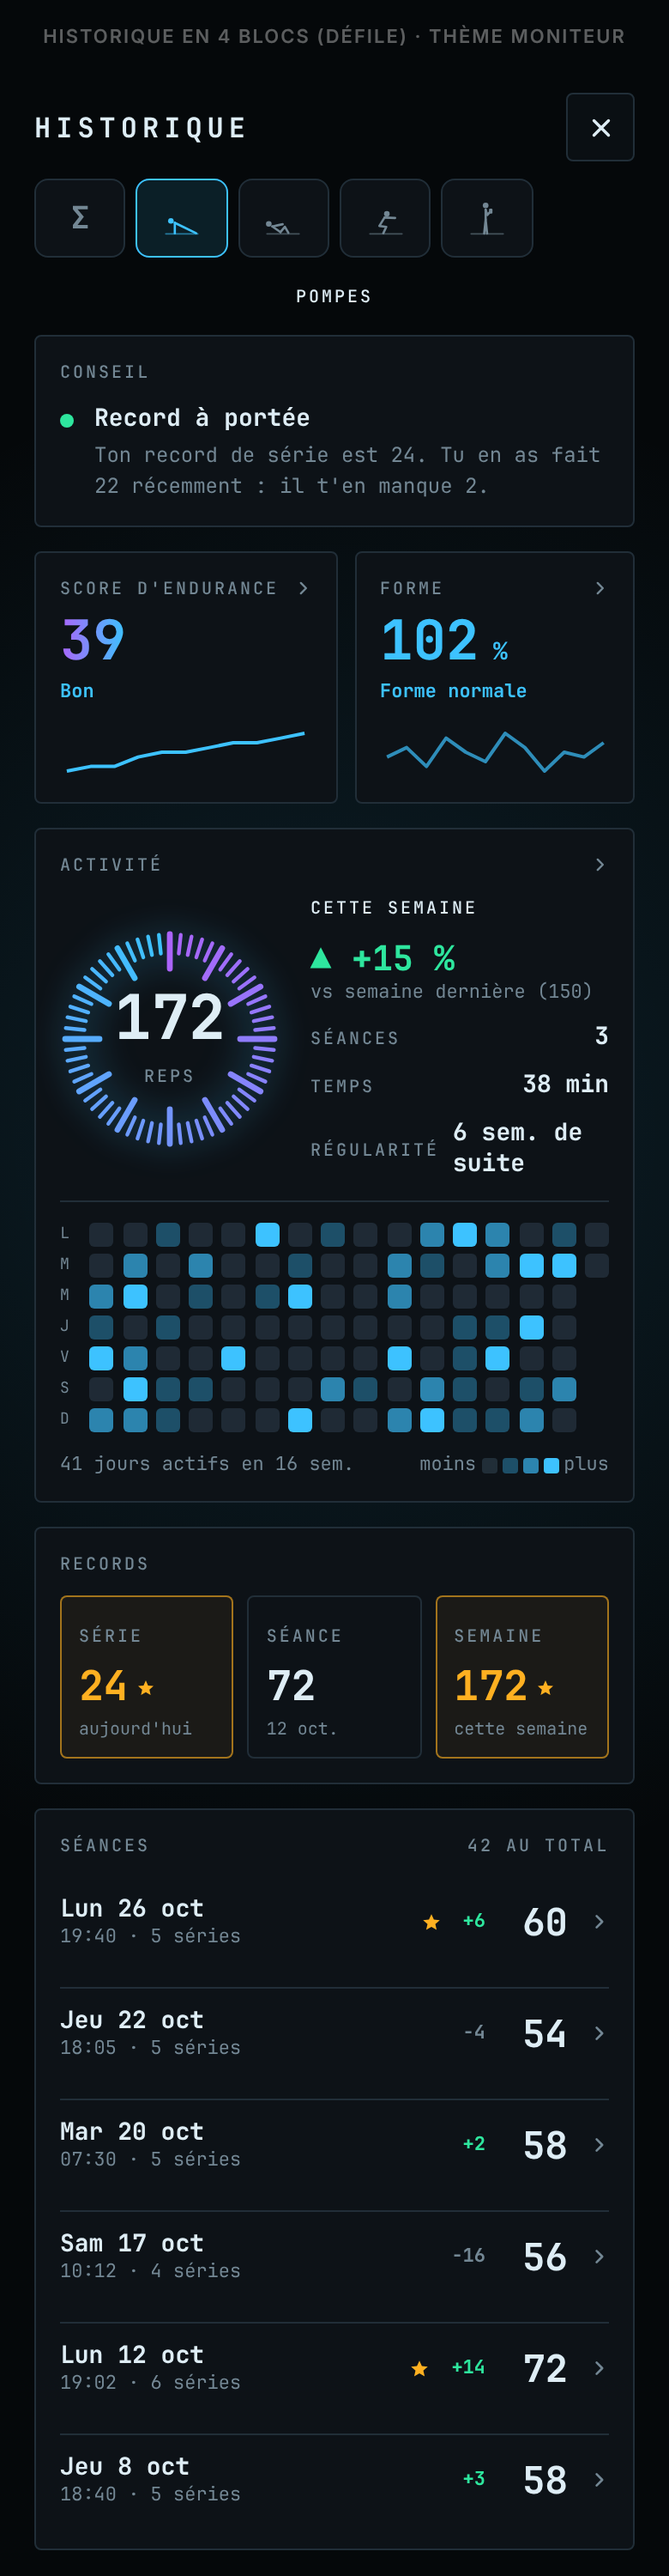
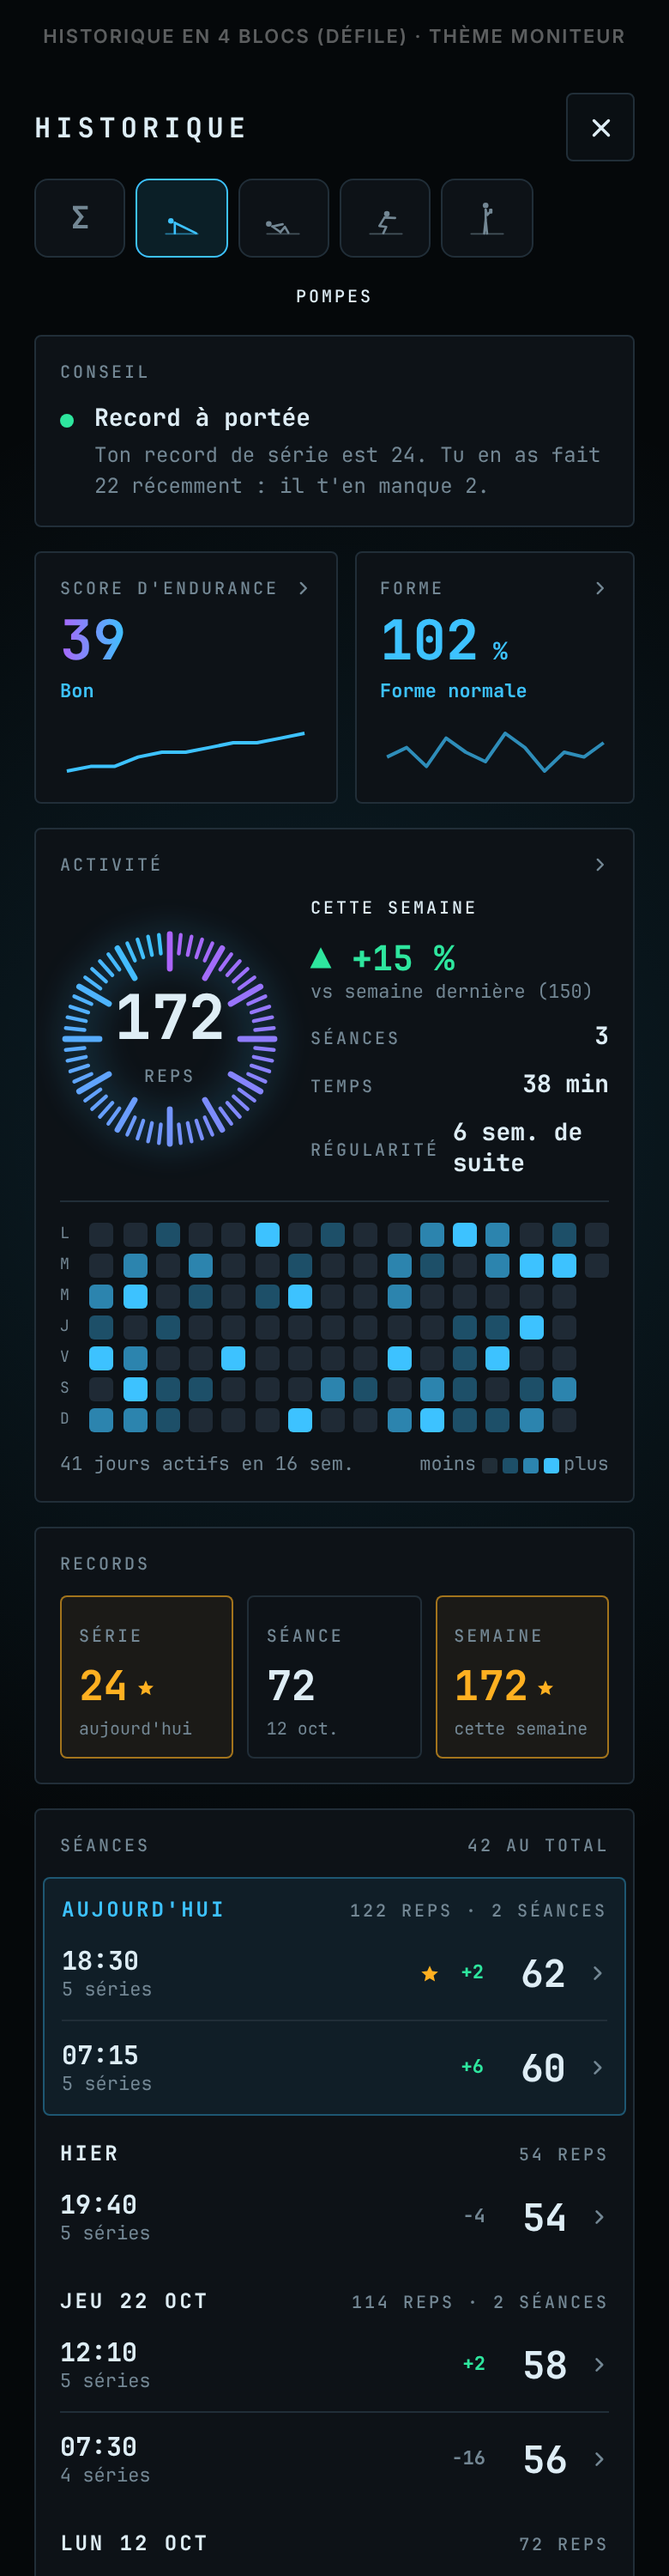
Historique : séances regroupées par jour, aujourd'hui mis en avant
Claude-Session: https://claude.ai/code/session_01FagVhaB5BD4mhMTzHfe9fj

diff --git a/RepCounter/HistoryView.swift b/RepCounter/HistoryView.swift
@@ -542,32 +542,86 @@ private struct RegularityCalendar: View {
     }
 }
 
-/// Liste des séances, la plus récente d'abord ; une touche ouvre le détail, un appui long propose
-/// de supprimer.
+/// Liste des séances par jour, le plus récent d'abord : la date une seule fois, puis les séances
+/// du jour à leurs heures. Aujourd'hui est mis en avant. Une touche ouvre le détail d'une séance,
+/// un appui long propose de la supprimer.
 private struct SessionsPanel: View {
     @Environment(\.theme) private var theme
     let stats: HistoryStats
     let showsExercise: Bool
     let onDelete: (SessionRecord) -> Void
 
+    /// Séances regroupées par jour (les séances arrivent déjà de la plus récente à la plus ancienne).
+    private var days: [(day: Date, sessions: [SessionRecord])] {
+        var groups: [(day: Date, sessions: [SessionRecord])] = []
+        for session in stats.sessions {
+            let day = stats.calendar.startOfDay(for: session.start)
+            if groups.last?.day == day {
+                groups[groups.count - 1].sessions.append(session)
+            } else {
+                groups.append((day, [session]))
+            }
+        }
+        return groups
+    }
+
     var body: some View {
         let records = stats.recordSessions
         HistoryPanel(title: "Séances", accessory: { MonitorLabel("\(stats.sessions.count) au total") }) {
-            VStack(spacing: 0) {
-                ForEach(Array(stats.sessions.enumerated()), id: \.element.persistentModelID) { index, session in
-                    if index > 0 { Rectangle().fill(theme.line).frame(height: 1) }
-                    NavigationLink(value: session) {
-                        row(session, isRecord: records.contains(session.persistentModelID))
-                    }
-                    .buttonStyle(.plain)
-                    .contextMenu {
-                        Button(role: .destructive) { onDelete(session) } label: {
-                            Label("Supprimer la séance", systemImage: "trash")
+            VStack(spacing: 14) {
+                ForEach(days, id: \.day) { group in
+                    let today = stats.calendar.isDateInToday(group.day)
+                    VStack(spacing: 0) {
+                        header(group.day, sessions: group.sessions, today: today)
+                        ForEach(Array(group.sessions.enumerated()), id: \.element.persistentModelID) { index, session in
+                            if index > 0 { Rectangle().fill(theme.line).frame(height: 1) }
+                            NavigationLink(value: session) {
+                                row(session, isRecord: records.contains(session.persistentModelID))
+                            }
+                            .buttonStyle(.plain)
+                            .contextMenu {
+                                Button(role: .destructive) { onDelete(session) } label: {
+                                    Label("Supprimer la séance", systemImage: "trash")
+                                }
+                            }
                         }
                     }
+                    // Aujourd'hui : un fond léger, la journée qui compte le plus
+                    .padding(.horizontal, today ? 10 : 0)
+                    .padding(.top, today ? 10 : 0)
+                    .background(today ? theme.primary.opacity(0.07) : .clear,
+                                in: RoundedRectangle(cornerRadius: theme.radius, style: .continuous))
+                    .overlay(RoundedRectangle(cornerRadius: theme.radius, style: .continuous)
+                        .stroke(today ? theme.primary.opacity(0.35) : .clear, lineWidth: 1))
+                    .padding(.horizontal, today ? -10 : 0)
                 }
             }
         }
+    }
+
+    /// La date du jour, et ce qu'on y a fait : le total (un exercice) ou le nombre de séances (Σ).
+    private func header(_ day: Date, sessions: [SessionRecord], today: Bool) -> some View {
+        let count = sessions.count
+        let summary = showsExercise
+            ? "\(count) séance\(count > 1 ? "s" : "")"
+            : "\(sessions.reduce(0) { $0 + $1.totalReps }) reps" + (count > 1 ? " · \(count) séances" : "")
+        return HStack(alignment: .firstTextBaseline) {
+            Text(dayTitle(day).uppercased())
+                .font(theme.font(12, .bold))
+                .tracking(1.5)
+                .foregroundStyle(today ? theme.primary : theme.text)
+            Spacer(minLength: 8)
+            MonitorLabel(summary)
+        }
+        .padding(.bottom, 2)
+        .accessibilityElement(children: .combine)
+        .accessibilityAddTraits(.isHeader)
+    }
+
+    private func dayTitle(_ day: Date) -> String {
+        if stats.calendar.isDateInToday(day) { return "Aujourd'hui" }
+        if stats.calendar.isDateInYesterday(day) { return "Hier" }
+        return Format.shortDay(day)
     }
 
     private func row(_ session: SessionRecord, isRecord: Bool) -> some View {
@@ -577,10 +631,11 @@ private struct SessionsPanel: View {
                     .foregroundStyle(theme.primary)
             }
             VStack(alignment: .leading, spacing: 2) {
-                Text(Format.shortDay(session.start))
-                    .font(theme.font(14, .bold))
+                Text(Format.time(session.start))
+                    .font(theme.font(15, .bold))
                     .foregroundStyle(theme.text)
-                Text("\(Format.time(session.start)) · \(session.orderedSets.count) série\(session.orderedSets.count > 1 ? "s" : "")")
+                    .monospacedDigit()
+                Text("\(session.orderedSets.count) série\(session.orderedSets.count > 1 ? "s" : "")")
                     .font(theme.font(11))
                     .foregroundStyle(theme.dim)
             }

diff --git a/Design/mockups/screens.html b/Design/mockups/screens.html
@@ -537,15 +537,26 @@ function render(t, s) {
       ? `<div class="row" style="gap:8px;align-items:stretch">${record("Série", "12", "aujourd'hui", true)}${record("Séance", "22", "aujourd'hui", true)}${record("Semaine", "34", "cette semaine", true)}</div>`
       : `<div class="row" style="gap:8px;align-items:stretch">${record("Série", "24", "aujourd'hui", true)}${record("Séance", "72", "12 oct.")}${record("Semaine", "172", "cette semaine", true)}</div>`;
     // Séances
-    const sessions = early ? [["Mar 27 oct", "07:40", 22, 2, "+10", true], ["Ven 23 oct", "18:20", 12, 1, ""]]
-      : [["Lun 26 oct", "19:40", 60, 5, "+6", true], ["Jeu 22 oct", "18:05", 54, 5, "−4"], ["Mar 20 oct", "07:30", 58, 5, "+2"],
-         ["Sam 17 oct", "10:12", 56, 4, "−16"], ["Lun 12 oct", "19:02", 72, 6, "+14", true], ["Jeu 8 oct", "18:40", 58, 5, "+3"]];
-    const list = sessions.map(([day, hour, total, n, delta, rec], i) => `<div class="row" style="gap:12px;padding:10px 0;${i ? `border-top:1px solid ${c.line}` : ""}">
-        <div style="flex:1"><div style="font-size:14px;font-weight:700">${day}</div><div style="font-size:11px;color:${c.dim}">${hour} · ${n} série${n > 1 ? "s" : ""}</div></div>
+    // Séances par jour : la date une fois, les séances à leurs heures ; aujourd'hui mis en avant
+    const days = early
+      ? [["Aujourd'hui", [["07:40", 22, 2, "+10", true]]], ["Ven 23 oct", [["18:20", 12, 1, ""]]]]
+      : [["Aujourd'hui", [["18:30", 62, 5, "+2", true], ["07:15", 60, 5, "+6"]]],
+         ["Hier", [["19:40", 54, 5, "−4"]]],
+         ["Jeu 22 oct", [["12:10", 58, 5, "+2"], ["07:30", 56, 4, "−16"]]],
+         ["Lun 12 oct", [["19:02", 72, 6, "+14", true]]]];
+    const sessions = days.flatMap(d => d[1]);
+    const list = `<div style="display:flex;flex-direction:column;gap:14px">${days.map(([day, rows], g) => {
+      const today = day === "Aujourd'hui", total = rows.reduce((a, x) => a + x[1], 0);
+      const body = rows.map(([hour, tot, n, delta, rec], i) => `<div class="row" style="gap:12px;padding:10px 0;${i ? `border-top:1px solid ${c.line}` : ""}">
+        <div style="flex:1"><div style="font-size:15px;font-weight:700">${hour}</div><div style="font-size:11px;color:${c.dim}">${n} série${n > 1 ? "s" : ""}</div></div>
         ${rec ? icon("star", c.warn, 13) : ""}
         <span style="font-size:11px;font-weight:700;color:${delta.startsWith("+") ? c.ok : c.dim}">${delta}</span>
-        <span style="font-size:22px;font-weight:700;min-width:36px;text-align:right">${total}</span>
+        <span style="font-size:22px;font-weight:700;min-width:36px;text-align:right">${tot}</span>
         ${chevronRight(c.dim, 12)}</div>`).join("");
+      return `<div style="${today ? `margin:0 -10px;padding:10px 10px 0;border-radius:${r}px;background:${hexA(c.primary, .07)};border:1px solid ${hexA(c.primary, .35)}` : ""}">
+        <div class="row" style="justify-content:space-between;padding-bottom:2px"><span style="font-size:12px;font-weight:700;letter-spacing:1.5px;text-transform:uppercase;color:${today ? c.primary : c.text}">${day}</span>
+        ${label(`${total} reps${rows.length > 1 ? ` · ${rows.length} séances` : ""}`)}</div>${body}</div>`;
+    }).join("")}</div>`;
     return `${header("HISTORIQUE")}
       <div style="display:flex;flex-direction:column;gap:14px;margin-top:10px">
         ${exerciseBar(1)}
@@ -553,7 +564,7 @@ function render(t, s) {
         <div class="row" style="gap:10px;align-items:stretch">${tiles}</div>
         ${activityPanel(early)}
         ${panel("Records", "", records)}
-        ${panel("Séances", label(`${sessions.length === 2 ? 2 : 42} au total`), list)}
+        ${panel("Séances", label(`${early ? 2 : 42} au total`), list)}
       </div>`;
   }
 

diff --git a/README.md b/README.md
@@ -47,7 +47,8 @@ Réglages. Pas de défilement.
      temps, semaines d'affilée) et la régularité sur 16 semaines — une touche ouvre le volume
      sur 12 semaines ;
   4. **Records** (série, séance, semaine ; en orange quand ils datent de la semaine) et la
-     liste des **séances**. Une séance s'ouvre sur son détail : séries, cadence, récupérations
+     liste des **séances**, par jour (la date une fois, puis les séances à leurs heures ;
+     aujourd'hui mis en avant). Une séance s'ouvre sur son détail : séries, cadence, récupérations
      et rythme rep par rep ; un appui long la supprime.
 - **Réglages** (roue dentée, en veille et à la fin) : mes exercices (− / + et poignée ≡ pour
   l'ordre ; il en reste toujours un) et « J'ai un brassard », profil, retour sonore, thème, mode analyse.
